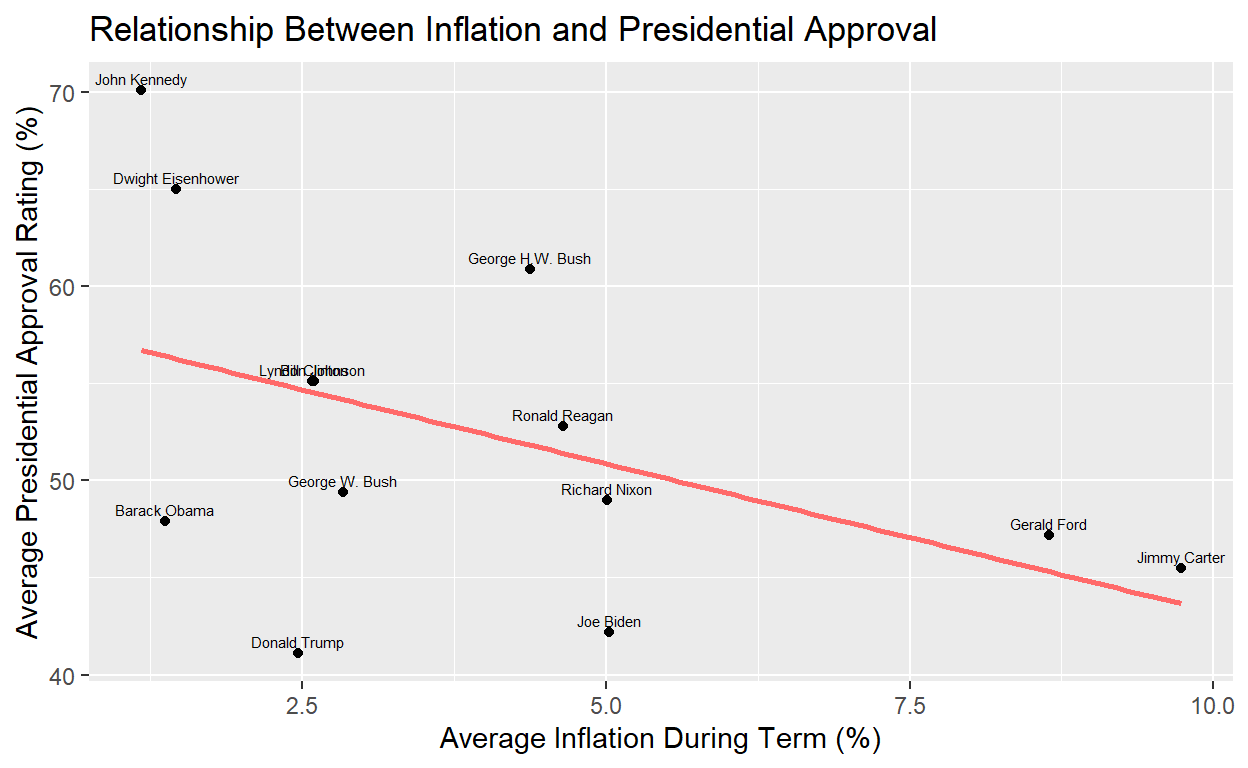
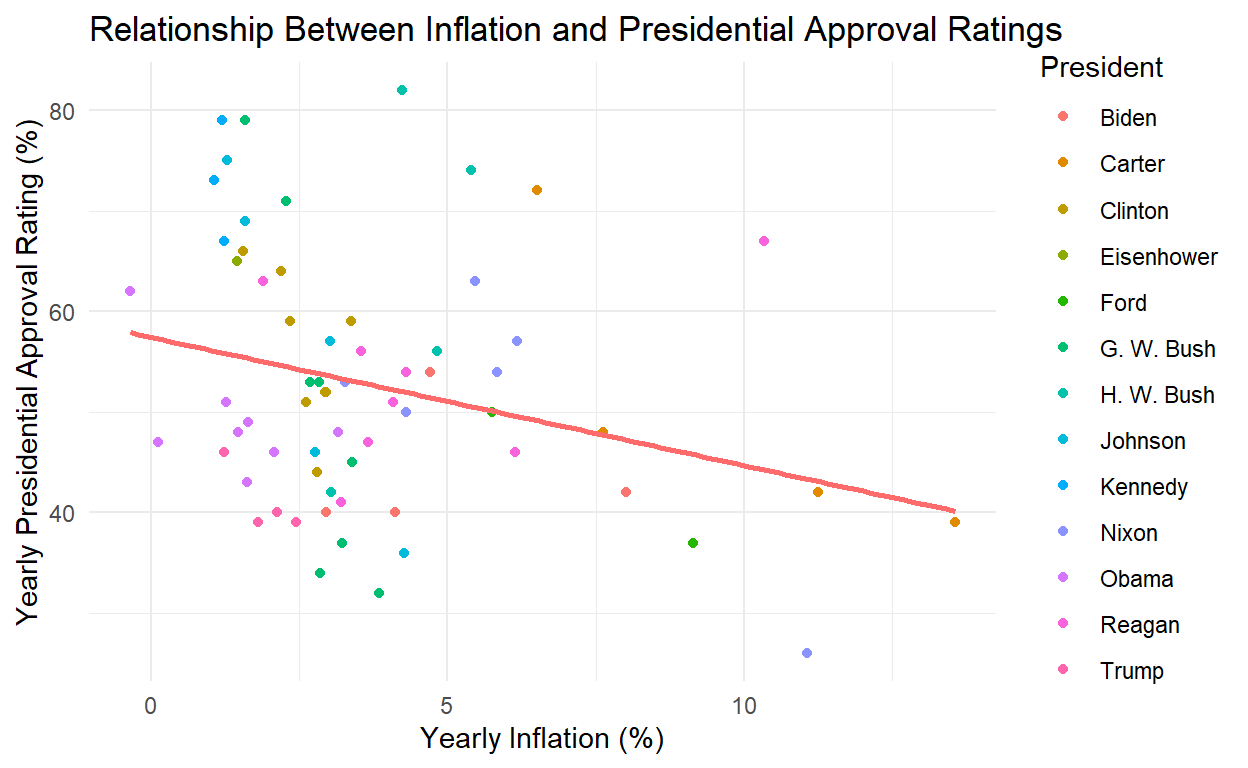
refreshing website

diff --git a/index.html b/index.html
@@ -116,7 +116,7 @@ code span.wa { color: #5e5e5e; font-style: italic; } /* Warning */
   <!--/radix_placeholder_rmarkdown_metadata-->
   
   <script type="text/json" id="radix-resource-manifest">
-  {"type":"character","attributes":{},"value":["data/inflation.csv","data/presapp.csv","index_files/anchor-4.2.2/anchor.min.js","index_files/bowser-1.9.3/bowser.min.js","index_files/distill-2.2.21/template.v2.js","index_files/figure-html5/unnamed-chunk-5-1.png","index_files/header-attrs-2.17/header-attrs.js","index_files/header-attrs-2.30/header-attrs.js","index_files/jquery-3.6.0/jquery-3.6.0.js","index_files/jquery-3.6.0/jquery-3.6.0.min.js","index_files/jquery-3.6.0/jquery-3.6.0.min.map","index_files/popper-2.6.0/popper.min.js","index_files/tippy-6.2.7/tippy-bundle.umd.min.js","index_files/tippy-6.2.7/tippy-light-border.css","index_files/tippy-6.2.7/tippy.css","index_files/tippy-6.2.7/tippy.umd.min.js","index_files/webcomponents-2.0.0/webcomponents.js"]}
+  {"type":"character","attributes":{},"value":["data/inflation.csv","data/presapp.csv","data/presapp270.csv","data/presapp270.xlsx","index_files/anchor-4.2.2/anchor.min.js","index_files/bowser-1.9.3/bowser.min.js","index_files/distill-2.2.21/template.v2.js","index_files/figure-html5/unnamed-chunk-3-1.png","index_files/figure-html5/unnamed-chunk-5-1.png","index_files/header-attrs-2.17/header-attrs.js","index_files/header-attrs-2.30/header-attrs.js","index_files/jquery-3.6.0/jquery-3.6.0.js","index_files/jquery-3.6.0/jquery-3.6.0.min.js","index_files/jquery-3.6.0/jquery-3.6.0.min.map","index_files/popper-2.6.0/popper.min.js","index_files/presapp270.xlsx","index_files/tippy-6.2.7/tippy-bundle.umd.min.js","index_files/tippy-6.2.7/tippy-light-border.css","index_files/tippy-6.2.7/tippy.css","index_files/tippy-6.2.7/tippy.umd.min.js","index_files/webcomponents-2.0.0/webcomponents.js"]}
   </script>
   <!--radix_placeholder_navigation_in_header-->
   <!--/radix_placeholder_navigation_in_header-->
@@ -1548,7 +1548,7 @@ code span.wa { color: #5e5e5e; font-style: italic; } /* Warning */
 <div class="sourceCode">
 <pre class="sourceCode r"><code class="sourceCode r"><span><span class='kw'><a href='https://rdrr.io/r/base/library.html'>library</a></span><span class='op'>(</span><span class='va'><a href='https://tidyverse.tidyverse.org'>tidyverse</a></span><span class='op'>)</span></span>
 <span><span class='va'>inflation</span> <span class='op'>&lt;-</span> <span class='fu'><a href='https://readr.tidyverse.org/reference/read_delim.html'>read_csv</a></span><span class='op'>(</span><span class='st'>"data/inflation.csv"</span>, show_col_types <span class='op'>=</span> <span class='cn'>FALSE</span><span class='op'>)</span></span>
-<span><span class='va'>presapp</span> <span class='op'>&lt;-</span> <span class='fu'><a href='https://readr.tidyverse.org/reference/read_delim.html'>read_csv</a></span><span class='op'>(</span><span class='st'>"data/presapp.csv"</span>, show_col_types <span class='op'>=</span> <span class='cn'>FALSE</span><span class='op'>)</span></span>
+<span><span class='va'>presapp</span> <span class='op'>&lt;-</span> <span class='fu'><a href='https://readr.tidyverse.org/reference/read_delim.html'>read_csv</a></span><span class='op'>(</span><span class='st'>"data/presapp270.csv"</span>, show_col_types <span class='op'>=</span> <span class='cn'>FALSE</span><span class='op'>)</span></span>
 <span></span>
 <span><span class='fu'><a href='https://rdrr.io/r/utils/head.html'>head</a></span><span class='op'>(</span><span class='va'>inflation</span><span class='op'>)</span></span></code></pre>
 </div>
@@ -1565,94 +1565,118 @@ code span.wa { color: #5e5e5e; font-style: italic; } /* Warning */
 <pre class="sourceCode r"><code class="sourceCode r"><span><span class='fu'><a href='https://rdrr.io/r/utils/head.html'>head</a></span><span class='op'>(</span><span class='va'>presapp</span><span class='op'>)</span></span></code></pre>
 </div>
 <pre><code># A tibble: 6 × 3
-  X.1               `Dates in office`          Average approval rati…¹
-  &lt;chr&gt;             &lt;chr&gt;                      &lt;chr&gt;                  
-1 &lt;NA&gt;              &lt;NA&gt;                       %                      
-2 Harry Truman      April 1945-January 1953    45.4                   
-3 Dwight Eisenhower January 1953-January 1961  65                     
-4 John Kennedy      January 1961-November 1963 70.1                   
-5 Lyndon Johnson    November 1963-January 1969 55.1                   
-6 Richard Nixon     January 1969-August 1974   49                     
-# ℹ abbreviated name: ¹`Average approval rating`</code></pre>
+  President  Date `Approval Rating`
+  &lt;chr&gt;     &lt;dbl&gt; &lt;chr&gt;            
+1 Truman     1945 87%              
+2 Truman     1946 51%              
+3 Truman     1947 63%              
+4 Truman     1948 36%              
+5 Truman     1949 57%              
+6 Truman     1950 37%              </code></pre>
 </div>
-<h2 id="project-thoughts">Project thoughts</h2>
-<p>I am interested in exploring data related to economics and political science. For example, I would be curious to research whether higher inflation is correlated with lower presidential approval ratings.</p>
-<h2 id="research-hypothesis">Research Hypothesis</h2>
-<p>My research question is as follows: does higher inflation have an impact on presidential approval ratings?
-My hypothesis that higher inflation is associated with lower presidential approval ratings. I believe that this is the case because the public generally pays attention to inflation as a general indicator of economic health, and also attributes economic outcomes to the sitting president. By extension, they should disapprove more of a president who is in office while inflation is higher. My explanatory variable of interest is yearly inflation from 1960 - 2024, sourced from the Federal Reserve Bank of St. Louis “Inflation, consumer prices for the United States” indicator. This variable is measured annually and expressed as a percentage. My outcome variable of interest is average presidential approval rating from time in office from Gallup, ranging from Harry Truman to Joe Biden and also expressed as a percentage. If a given increase in inflation corresponds to a lower presidential approval rating, this would provide support for my hypothesis. A given increase in inflation has no positive or negative correlation on presidential approval ratings, or a given increase in inflation is associated with higher presidential ratings, would disprove my hypothesis.</p>
-<h2 id="data-cleaning-and-visualization">Data cleaning and visualization</h2>
+<h2 id="introduction">Introduction</h2>
+<p><strong>My research question is as follows</strong>: does higher inflation have an impact on presidential approval ratings? <strong>I hypothesize that higher inflation is associated with lower presidential approval ratings.</strong> I believe this relationship will be evident, because the public generally pays attention to inflation as a general indicator of economic health, and also attributes economic outcomes to the sitting president. By extension, they should disapprove more of a president who is in office while inflation is higher.</p>
+<p><strong>This research question is important</strong>, because it seeks to provide explanation for presidential approval ratings, the primary indicator used to define the public’s assessment of the president. Presidential approval ratings have a wide berth of consequences. They indicate the president’s likelihood of reelection, the likelihood that president’s party will find success at midterm elections, the level of difficulty the president will incur in trying to pass legislation, and other considerations. As a result, it’s important to understand what variables impact presidential approval ratings. The rate of inflation is one of the most visible aspects of the economy in the public’s eyes, and the public also looks to the president to generate economic success. Thus, it is logical to research whether the rate of inflation informs the public’s opinion of the president.</p>
+<h2 id="data">Data</h2>
+<p>My explanatory variable of interest, or <strong>predictor variable, is</strong> yearly inflation from 1960 - 2024, sourced from the Federal Reserve Bank of St. Louis’s “Inflation, consumer prices for the United States” indicator. This variable is measured annually and expressed as a percentage. <strong>My outcome variable of interest is</strong> Gallup’s yearly presidential approval ratings from time in office, ranging from Harry Truman to Joe Biden, and also expressed as a percentage. I specifically recorded yearly presidential approval ratings from Gallup’s “Presidential Job Approval Center” into an Excel document. If a given increase in inflation corresponds to a lower presidential approval rating, <strong>this would provide support for my hypothesis.</strong> If a given increase in inflation has no correlation with presidential approval ratings, or if a given increase in inflation is associated with higher presidential ratings, <strong>this would mean that I reject my hypothesis.</strong></p>
+<h2 id="data-cleaning">Data Cleaning</h2>
+<h3 id="preview-of-inflation-and-presidential-approval-ratings-datasets">Preview of Inflation and Presidential Approval Ratings Datasets</h3>
 <div class="layout-chunk" data-layout="l-body">
 <div class="sourceCode">
 <pre class="sourceCode r"><code class="sourceCode r"><span><span class='va'>presapp</span> <span class='op'>&lt;-</span> <span class='va'>presapp</span> <span class='op'>|&gt;</span></span>
-<span>  <span class='fu'><a href='https://dplyr.tidyverse.org/reference/slice.html'>slice</a></span><span class='op'>(</span><span class='op'>-</span><span class='fl'>1</span><span class='op'>)</span> <span class='op'>|&gt;</span></span>
-<span>  <span class='fu'><a href='https://dplyr.tidyverse.org/reference/rename.html'>rename</a></span><span class='op'>(</span>president <span class='op'>=</span> <span class='va'>X.1</span>, </span>
-<span>         approval <span class='op'>=</span> <span class='va'>`Average approval rating`</span><span class='op'>)</span> <span class='op'>|&gt;</span></span>
-<span>  <span class='fu'><a href='https://dplyr.tidyverse.org/reference/mutate.html'>mutate</a></span><span class='op'>(</span>approval <span class='op'>=</span> <span class='fu'><a href='https://rdrr.io/r/base/numeric.html'>as.numeric</a></span><span class='op'>(</span><span class='va'>approval</span><span class='op'>)</span><span class='op'>)</span></span>
+<span>  <span class='fu'><a href='https://dplyr.tidyverse.org/reference/rename.html'>rename</a></span><span class='op'>(</span>year <span class='op'>=</span> <span class='va'>Date</span><span class='op'>)</span> <span class='op'>|&gt;</span></span>
+<span>  <span class='fu'><a href='https://dplyr.tidyverse.org/reference/mutate.html'>mutate</a></span><span class='op'>(</span></span>
+<span>    approval <span class='op'>=</span> <span class='fu'><a href='https://readr.tidyverse.org/reference/parse_number.html'>parse_number</a></span><span class='op'>(</span><span class='va'>`Approval Rating`</span><span class='op'>)</span><span class='op'>)</span></span>
 <span></span>
-<span><span class='va'>inflation</span> <span class='op'>&lt;-</span> <span class='va'>inflation</span> <span class='op'>|&gt;</span></span>
+<span><span class='va'>presapp</span></span></code></pre>
+</div>
+<pre><code># A tibble: 81 × 4
+   President   year `Approval Rating` approval
+   &lt;chr&gt;      &lt;dbl&gt; &lt;chr&gt;                &lt;dbl&gt;
+ 1 Truman      1945 87%                     87
+ 2 Truman      1946 51%                     51
+ 3 Truman      1947 63%                     63
+ 4 Truman      1948 36%                     36
+ 5 Truman      1949 57%                     57
+ 6 Truman      1950 37%                     37
+ 7 Truman      1951 28%                     28
+ 8 Truman      1952 28%                     28
+ 9 Eisenhower  1953 74%                     74
+10 Eisenhower  1954 66%                     66
+# ℹ 71 more rows</code></pre>
+<div class="sourceCode">
+<pre class="sourceCode r"><code class="sourceCode r"><span><span class='va'>inflation</span> <span class='op'>&lt;-</span> <span class='va'>inflation</span> <span class='op'>|&gt;</span></span>
 <span>  <span class='fu'><a href='https://dplyr.tidyverse.org/reference/rename.html'>rename</a></span><span class='op'>(</span>inflation <span class='op'>=</span> <span class='va'>FPCPITOTLZGUSA</span><span class='op'>)</span> <span class='op'>|&gt;</span></span>
-<span>  <span class='fu'><a href='https://dplyr.tidyverse.org/reference/mutate.html'>mutate</a></span><span class='op'>(</span>year <span class='op'>=</span> <span class='fu'><a href='https://rdrr.io/r/base/integer.html'>as.integer</a></span><span class='op'>(</span><span class='fu'><a href='https://rdrr.io/r/base/format.html'>format</a></span><span class='op'>(</span><span class='va'>observation_date</span>, <span class='st'>"%Y"</span><span class='op'>)</span><span class='op'>)</span><span class='op'>)</span></span></code></pre>
+<span>  <span class='fu'><a href='https://dplyr.tidyverse.org/reference/mutate.html'>mutate</a></span><span class='op'>(</span>year <span class='op'>=</span> <span class='fu'><a href='https://rdrr.io/r/base/integer.html'>as.integer</a></span><span class='op'>(</span><span class='fu'><a href='https://rdrr.io/r/base/format.html'>format</a></span><span class='op'>(</span><span class='va'>observation_date</span>, <span class='st'>"%Y"</span><span class='op'>)</span><span class='op'>)</span><span class='op'>)</span></span>
+<span></span>
+<span><span class='va'>inflation</span></span></code></pre>
 </div>
+<pre><code># A tibble: 65 × 3
+   observation_date inflation  year
+   &lt;date&gt;               &lt;dbl&gt; &lt;int&gt;
+ 1 1960-01-01            1.46  1960
+ 2 1961-01-01            1.07  1961
+ 3 1962-01-01            1.20  1962
+ 4 1963-01-01            1.24  1963
+ 5 1964-01-01            1.28  1964
+ 6 1965-01-01            1.59  1965
+ 7 1966-01-01            3.02  1966
+ 8 1967-01-01            2.77  1967
+ 9 1968-01-01            4.27  1968
+10 1969-01-01            5.46  1969
+# ℹ 55 more rows</code></pre>
 </div>
+<h3 id="plot-visualizing-presidential-voting-records"><strong>Plot Visualizing Presidential Voting Records</strong></h3>
 <div class="layout-chunk" data-layout="l-body">
 <div class="sourceCode">
-<pre class="sourceCode r"><code class="sourceCode r"><span><span class='va'>presapp</span></span></code></pre>
+<pre class="sourceCode r"><code class="sourceCode r"><span><span class='va'>presappplot</span> <span class='op'>&lt;-</span> <span class='fu'><a href='https://ggplot2.tidyverse.org/reference/ggplot.html'>ggplot</a></span><span class='op'>(</span>data <span class='op'>=</span> <span class='va'>presapp</span>, mapping <span class='op'>=</span> <span class='fu'><a href='https://ggplot2.tidyverse.org/reference/aes.html'>aes</a></span><span class='op'>(</span>x <span class='op'>=</span> <span class='va'>year</span>, y <span class='op'>=</span> <span class='va'>approval</span>, color <span class='op'>=</span> <span class='va'>President</span><span class='op'>)</span><span class='op'>)</span> <span class='op'>+</span></span>
+<span>  <span class='fu'><a href='https://ggplot2.tidyverse.org/reference/geom_point.html'>geom_point</a></span><span class='op'>(</span><span class='op'>)</span> <span class='op'>+</span></span>
+<span>  <span class='fu'><a href='https://ggplot2.tidyverse.org/reference/geom_smooth.html'>geom_smooth</a></span><span class='op'>(</span>method <span class='op'>=</span> <span class='st'>"lm"</span>, se <span class='op'>=</span> <span class='cn'>FALSE</span>, color <span class='op'>=</span> <span class='st'>"indianred1"</span><span class='op'>)</span> <span class='op'>+</span></span>
+<span>  <span class='fu'><a href='https://ggplot2.tidyverse.org/reference/labs.html'>labs</a></span><span class='op'>(</span>x <span class='op'>=</span> <span class='st'>"Year"</span>,</span>
+<span>       y <span class='op'>=</span> <span class='st'>"Presidential Approval Rating (%)"</span>,</span>
+<span>       title <span class='op'>=</span> <span class='st'>"Presidential Approval Ratings by Year"</span><span class='op'>)</span></span>
+<span></span>
+<span><span class='va'>presappplot</span></span></code></pre>
 </div>
-<pre><code># A tibble: 14 × 3
-   president         `Dates in office`          approval
-   &lt;chr&gt;             &lt;chr&gt;                         &lt;dbl&gt;
- 1 Harry Truman      April 1945-January 1953        45.4
- 2 Dwight Eisenhower January 1953-January 1961      65  
- 3 John Kennedy      January 1961-November 1963     70.1
- 4 Lyndon Johnson    November 1963-January 1969     55.1
- 5 Richard Nixon     January 1969-August 1974       49  
- 6 Gerald Ford       August 1974-January 1977       47.2
- 7 Jimmy Carter      January 1977-January 1981      45.5
- 8 Ronald Reagan     January 1981-January 1989      52.8
- 9 George H.W. Bush  January 1989-January 1993      60.9
-10 Bill Clinton      January 1993-January 2001      55.1
-11 George W. Bush    January 2001-January 2009      49.4
-12 Barack Obama      January 2009-January 2017      47.9
-13 Donald Trump      January 2017-January 2021      41.1
-14 Joe Biden         January 2021-January 2025      42.2</code></pre>
+<p><img src="index_files/figure-html5/unnamed-chunk-3-1.png" alt="" width="624" /></p>
 </div>
+<h3 id="joining-datasets">Joining Datasets</h3>
 <div class="layout-chunk" data-layout="l-body">
 <div class="sourceCode">
 <pre class="sourceCode r"><code class="sourceCode r"><span><span class='kw'><a href='https://rdrr.io/r/base/library.html'>library</a></span><span class='op'>(</span><span class='va'><a href='https://tidyverse.tidyverse.org'>tidyverse</a></span><span class='op'>)</span></span>
 <span></span>
-<span><span class='va'>inflation_by_pres</span> <span class='op'>&lt;-</span> <span class='va'>inflation</span> <span class='op'>|&gt;</span></span>
-<span>  <span class='fu'><a href='https://dplyr.tidyverse.org/reference/mutate.html'>mutate</a></span><span class='op'>(</span>president <span class='op'>=</span> <span class='fu'><a href='https://dplyr.tidyverse.org/reference/case-and-replace-when.html'>case_when</a></span><span class='op'>(</span></span>
-<span>    <span class='va'>year</span> <span class='op'>&gt;=</span> <span class='fl'>1945</span> <span class='op'>&amp;</span> <span class='va'>year</span> <span class='op'>&lt;=</span> <span class='fl'>1952</span> <span class='op'>~</span> <span class='st'>"Harry Truman"</span>,</span>
-<span>    <span class='va'>year</span> <span class='op'>&gt;=</span> <span class='fl'>1953</span> <span class='op'>&amp;</span> <span class='va'>year</span> <span class='op'>&lt;=</span> <span class='fl'>1960</span> <span class='op'>~</span> <span class='st'>"Dwight Eisenhower"</span>,</span>
-<span>    <span class='va'>year</span> <span class='op'>&gt;=</span> <span class='fl'>1961</span> <span class='op'>&amp;</span> <span class='va'>year</span> <span class='op'>&lt;=</span> <span class='fl'>1963</span> <span class='op'>~</span> <span class='st'>"John Kennedy"</span>,</span>
-<span>    <span class='va'>year</span> <span class='op'>&gt;=</span> <span class='fl'>1964</span> <span class='op'>&amp;</span> <span class='va'>year</span> <span class='op'>&lt;=</span> <span class='fl'>1968</span> <span class='op'>~</span> <span class='st'>"Lyndon Johnson"</span>,</span>
-<span>    <span class='va'>year</span> <span class='op'>&gt;=</span> <span class='fl'>1969</span> <span class='op'>&amp;</span> <span class='va'>year</span> <span class='op'>&lt;=</span> <span class='fl'>1973</span> <span class='op'>~</span> <span class='st'>"Richard Nixon"</span>,</span>
-<span>    <span class='va'>year</span> <span class='op'>&gt;=</span> <span class='fl'>1974</span> <span class='op'>&amp;</span> <span class='va'>year</span> <span class='op'>&lt;=</span> <span class='fl'>1976</span> <span class='op'>~</span> <span class='st'>"Gerald Ford"</span>,</span>
-<span>    <span class='va'>year</span> <span class='op'>&gt;=</span> <span class='fl'>1977</span> <span class='op'>&amp;</span> <span class='va'>year</span> <span class='op'>&lt;=</span> <span class='fl'>1980</span> <span class='op'>~</span> <span class='st'>"Jimmy Carter"</span>,</span>
-<span>    <span class='va'>year</span> <span class='op'>&gt;=</span> <span class='fl'>1981</span> <span class='op'>&amp;</span> <span class='va'>year</span> <span class='op'>&lt;=</span> <span class='fl'>1988</span> <span class='op'>~</span> <span class='st'>"Ronald Reagan"</span>,</span>
-<span>    <span class='va'>year</span> <span class='op'>&gt;=</span> <span class='fl'>1989</span> <span class='op'>&amp;</span> <span class='va'>year</span> <span class='op'>&lt;=</span> <span class='fl'>1992</span> <span class='op'>~</span> <span class='st'>"George H.W. Bush"</span>,</span>
-<span>    <span class='va'>year</span> <span class='op'>&gt;=</span> <span class='fl'>1993</span> <span class='op'>&amp;</span> <span class='va'>year</span> <span class='op'>&lt;=</span> <span class='fl'>2000</span> <span class='op'>~</span> <span class='st'>"Bill Clinton"</span>,</span>
-<span>    <span class='va'>year</span> <span class='op'>&gt;=</span> <span class='fl'>2001</span> <span class='op'>&amp;</span> <span class='va'>year</span> <span class='op'>&lt;=</span> <span class='fl'>2008</span> <span class='op'>~</span> <span class='st'>"George W. Bush"</span>,</span>
-<span>    <span class='va'>year</span> <span class='op'>&gt;=</span> <span class='fl'>2009</span> <span class='op'>&amp;</span> <span class='va'>year</span> <span class='op'>&lt;=</span> <span class='fl'>2016</span> <span class='op'>~</span> <span class='st'>"Barack Obama"</span>,</span>
-<span>    <span class='va'>year</span> <span class='op'>&gt;=</span> <span class='fl'>2017</span> <span class='op'>&amp;</span> <span class='va'>year</span> <span class='op'>&lt;=</span> <span class='fl'>2021</span> <span class='op'>~</span> <span class='st'>"Donald Trump"</span>,</span>
-<span>    <span class='va'>year</span> <span class='op'>&gt;=</span> <span class='fl'>2022</span> <span class='op'>&amp;</span> <span class='va'>year</span> <span class='op'>&lt;=</span> <span class='fl'>2025</span> <span class='op'>~</span> <span class='st'>"Joe Biden"</span> </span>
-<span>    <span class='op'>)</span><span class='op'>)</span> <span class='op'>|&gt;</span></span>
-<span>  <span class='fu'><a href='https://dplyr.tidyverse.org/reference/group_by.html'>group_by</a></span><span class='op'>(</span><span class='va'>president</span><span class='op'>)</span> <span class='op'>|&gt;</span></span>
-<span>  <span class='fu'><a href='https://dplyr.tidyverse.org/reference/summarise.html'>summarize</a></span><span class='op'>(</span>avg_inflation <span class='op'>=</span> <span class='fu'><a href='https://rdrr.io/r/base/mean.html'>mean</a></span><span class='op'>(</span><span class='va'>inflation</span>, na.rm <span class='op'>=</span> <span class='cn'>TRUE</span><span class='op'>)</span><span class='op'>)</span></span>
+<span><span class='va'>joined</span> <span class='op'>&lt;-</span> <span class='va'>presapp</span> <span class='op'>|&gt;</span></span>
+<span>  <span class='fu'><a href='https://dplyr.tidyverse.org/reference/mutate-joins.html'>inner_join</a></span><span class='op'>(</span><span class='va'>inflation</span>, by <span class='op'>=</span> <span class='st'>"year"</span><span class='op'>)</span> </span>
 <span></span>
-<span><span class='va'>visual_data</span> <span class='op'>&lt;-</span> <span class='va'>presapp</span> <span class='op'>|&gt;</span></span>
-<span>  <span class='fu'><a href='https://dplyr.tidyverse.org/reference/mutate-joins.html'>inner_join</a></span><span class='op'>(</span><span class='va'>inflation_by_pres</span>, by <span class='op'>=</span> <span class='st'>"president"</span><span class='op'>)</span></span></code></pre>
+<span><span class='va'>joined</span></span></code></pre>
 </div>
+<pre><code># A tibble: 65 × 6
+   President   year `Approval Rating` approval observation_date
+   &lt;chr&gt;      &lt;dbl&gt; &lt;chr&gt;                &lt;dbl&gt; &lt;date&gt;          
+ 1 Eisenhower  1960 65%                     65 1960-01-01      
+ 2 Kennedy     1961 73%                     73 1961-01-01      
+ 3 Kennedy     1962 79%                     79 1962-01-01      
+ 4 Kennedy     1963 67%                     67 1963-01-01      
+ 5 Johnson     1964 75%                     75 1964-01-01      
+ 6 Johnson     1965 69%                     69 1965-01-01      
+ 7 Johnson     1966 57%                     57 1966-01-01      
+ 8 Johnson     1967 46%                     46 1967-01-01      
+ 9 Johnson     1968 36%                     36 1968-01-01      
+10 Nixon       1969 63%                     63 1969-01-01      
+# ℹ 55 more rows
+# ℹ 1 more variable: inflation &lt;dbl&gt;</code></pre>
 </div>
+<h2 id="results">Results</h2>
+<h3 id="plot-visualizing-presidential-approval-ratings-with-relation-to-changes-in-inflation"><strong>Plot Visualizing Presidential Approval Ratings with Relation to Changes in Inflation</strong></h3>
 <div class="layout-chunk" data-layout="l-body">
 <div class="sourceCode">
-<pre class="sourceCode r"><code class="sourceCode r"><span><span class='va'>visual</span> <span class='op'>&lt;-</span> <span class='fu'><a href='https://ggplot2.tidyverse.org/reference/ggplot.html'>ggplot</a></span><span class='op'>(</span>data <span class='op'>=</span> <span class='va'>visual_data</span>, mapping <span class='op'>=</span> <span class='fu'><a href='https://ggplot2.tidyverse.org/reference/aes.html'>aes</a></span><span class='op'>(</span>x <span class='op'>=</span> <span class='va'>avg_inflation</span>, y <span class='op'>=</span> <span class='va'>approval</span><span class='op'>)</span><span class='op'>)</span> <span class='op'>+</span></span>
+<pre class="sourceCode r"><code class="sourceCode r"><span><span class='va'>visual</span> <span class='op'>&lt;-</span> <span class='fu'><a href='https://ggplot2.tidyverse.org/reference/ggplot.html'>ggplot</a></span><span class='op'>(</span>data <span class='op'>=</span> <span class='va'>joined</span>, mapping <span class='op'>=</span> <span class='fu'><a href='https://ggplot2.tidyverse.org/reference/aes.html'>aes</a></span><span class='op'>(</span>x <span class='op'>=</span> <span class='va'>inflation</span>, y <span class='op'>=</span> <span class='va'>approval</span>, color <span class='op'>=</span> <span class='va'>President</span><span class='op'>)</span><span class='op'>)</span> <span class='op'>+</span></span>
 <span>  <span class='fu'><a href='https://ggplot2.tidyverse.org/reference/geom_point.html'>geom_point</a></span><span class='op'>(</span><span class='op'>)</span> <span class='op'>+</span></span>
 <span>  <span class='fu'><a href='https://ggplot2.tidyverse.org/reference/geom_smooth.html'>geom_smooth</a></span><span class='op'>(</span>method <span class='op'>=</span> <span class='st'>"lm"</span>, se <span class='op'>=</span> <span class='cn'>FALSE</span>, color <span class='op'>=</span> <span class='st'>"indianred1"</span><span class='op'>)</span> <span class='op'>+</span></span>
-<span>  <span class='fu'><a href='https://ggplot2.tidyverse.org/reference/geom_text.html'>geom_text</a></span><span class='op'>(</span><span class='fu'><a href='https://ggplot2.tidyverse.org/reference/aes.html'>aes</a></span><span class='op'>(</span>label <span class='op'>=</span> <span class='va'>president</span><span class='op'>)</span>, size <span class='op'>=</span> <span class='fl'>2</span>, vjust <span class='op'>=</span> <span class='op'>-</span><span class='fl'>0.5</span><span class='op'>)</span> <span class='op'>+</span></span>
-<span>  <span class='fu'><a href='https://ggplot2.tidyverse.org/reference/labs.html'>labs</a></span><span class='op'>(</span>x <span class='op'>=</span> <span class='st'>"Average Inflation During Term (%)"</span>,</span>
-<span>       y <span class='op'>=</span> <span class='st'>"Average Presidential Approval Rating (%)"</span>,</span>
-<span>       title <span class='op'>=</span> <span class='st'>"Relationship Between Inflation and Presidential Approval"</span><span class='op'>)</span></span>
+<span>  <span class='fu'><a href='https://ggplot2.tidyverse.org/reference/labs.html'>labs</a></span><span class='op'>(</span>x <span class='op'>=</span> <span class='st'>"Yearly Inflation (%)"</span>,</span>
+<span>       y <span class='op'>=</span> <span class='st'>"Yearly Presidential Approval Rating (%)"</span>,</span>
+<span>       title <span class='op'>=</span> <span class='st'>"Relationship Between Inflation and Presidential Approval Ratings"</span><span class='op'>)</span> <span class='op'>+</span></span>
+<span>  <span class='fu'><a href='https://ggplot2.tidyverse.org/reference/ggtheme.html'>theme_minimal</a></span><span class='op'>(</span><span class='op'>)</span></span>
 <span></span>
 <span><span class='va'>visual</span></span></code></pre>
 </div>
@@ -1662,7 +1686,7 @@ My hypothesis that higher inflation is associated with lower presidential approv
 <div class="layout-chunk" data-layout="l-body">
 <div class="sourceCode">
 <pre class="sourceCode r"><code class="sourceCode r"><span><span class='kw'><a href='https://rdrr.io/r/base/library.html'>library</a></span><span class='op'>(</span><span class='va'><a href='https://broom.tidymodels.org/'>broom</a></span><span class='op'>)</span></span>
-<span><span class='va'>approval_fit</span> <span class='op'>&lt;-</span> <span class='fu'><a href='https://rdrr.io/r/stats/lm.html'>lm</a></span><span class='op'>(</span><span class='va'>approval</span> <span class='op'>~</span> <span class='va'>avg_inflation</span>, data <span class='op'>=</span> <span class='va'>visual_data</span><span class='op'>)</span></span>
+<span><span class='va'>approval_fit</span> <span class='op'>&lt;-</span> <span class='fu'><a href='https://rdrr.io/r/stats/lm.html'>lm</a></span><span class='op'>(</span><span class='va'>approval</span> <span class='op'>~</span> <span class='va'>inflation</span>, data <span class='op'>=</span> <span class='va'>joined</span><span class='op'>)</span></span>
 <span></span>
 <span><span class='va'>regression_table</span> <span class='op'>&lt;-</span> <span class='fu'><a href='https://generics.r-lib.org/reference/tidy.html'>tidy</a></span><span class='op'>(</span><span class='va'>approval_fit</span><span class='op'>)</span></span>
 <span></span>
@@ -1687,23 +1711,23 @@ My hypothesis that higher inflation is associated with lower presidential approv
 <tbody>
 <tr class="odd">
 <td style="text-align: left;">(Intercept)</td>
-<td style="text-align: right;">58.49</td>
-<td style="text-align: right;">4.10</td>
-<td style="text-align: right;">14.26</td>
+<td style="text-align: right;">57.43</td>
+<td style="text-align: right;">2.59</td>
+<td style="text-align: right;">22.15</td>
 <td style="text-align: right;">0.00</td>
 </tr>
 <tr class="even">
-<td style="text-align: left;">avg_inflation</td>
-<td style="text-align: right;">-1.52</td>
-<td style="text-align: right;">0.86</td>
-<td style="text-align: right;">-1.76</td>
-<td style="text-align: right;">0.11</td>
+<td style="text-align: left;">inflation</td>
+<td style="text-align: right;">-1.27</td>
+<td style="text-align: right;">0.56</td>
+<td style="text-align: right;">-2.28</td>
+<td style="text-align: right;">0.03</td>
 </tr>
 </tbody>
 </table>
 </div>
-<p>According to my regression analysis, the predicted presidential approval rating when average inflation is 0% is 58.49%. The slope is -1.52, meaning that every 1% increase in average inflation corresponds to a drop in presidential approval ratings of 1.52%. These findings support my hypothesis that higher average inflation is associated with lower presidential approval ratings. One thing to note is the p-value of 11%, which informs us that there is an 11% chance these findings would be visible even if inflation had no effect on presidential approval ratings.</p>
-<div class="sourceCode" id="cb4"><pre class="sourceCode r distill-force-highlighting-css"><code class="sourceCode r"></code></pre></div>
+<p>According to my regression analysis, the predicted presidential approval rating when yearly inflation is 0% is 57.43%. The slope is -1.27, meaning that every 1% increase in yearly inflation corresponds to a drop in presidential approval ratings of 1.27%. These findings support my hypothesis that higher inflation is associated with lower presidential approval ratings. One thing to note is the p-value of 3%, which informs us that there is an 3% chance these findings would be visible even if inflation had no effect on presidential approval ratings.</p>
+<div class="sourceCode" id="cb6"><pre class="sourceCode r distill-force-highlighting-css"><code class="sourceCode r"></code></pre></div>
 <!--radix_placeholder_article_footer-->
 <!--/radix_placeholder_article_footer-->
 </div>
